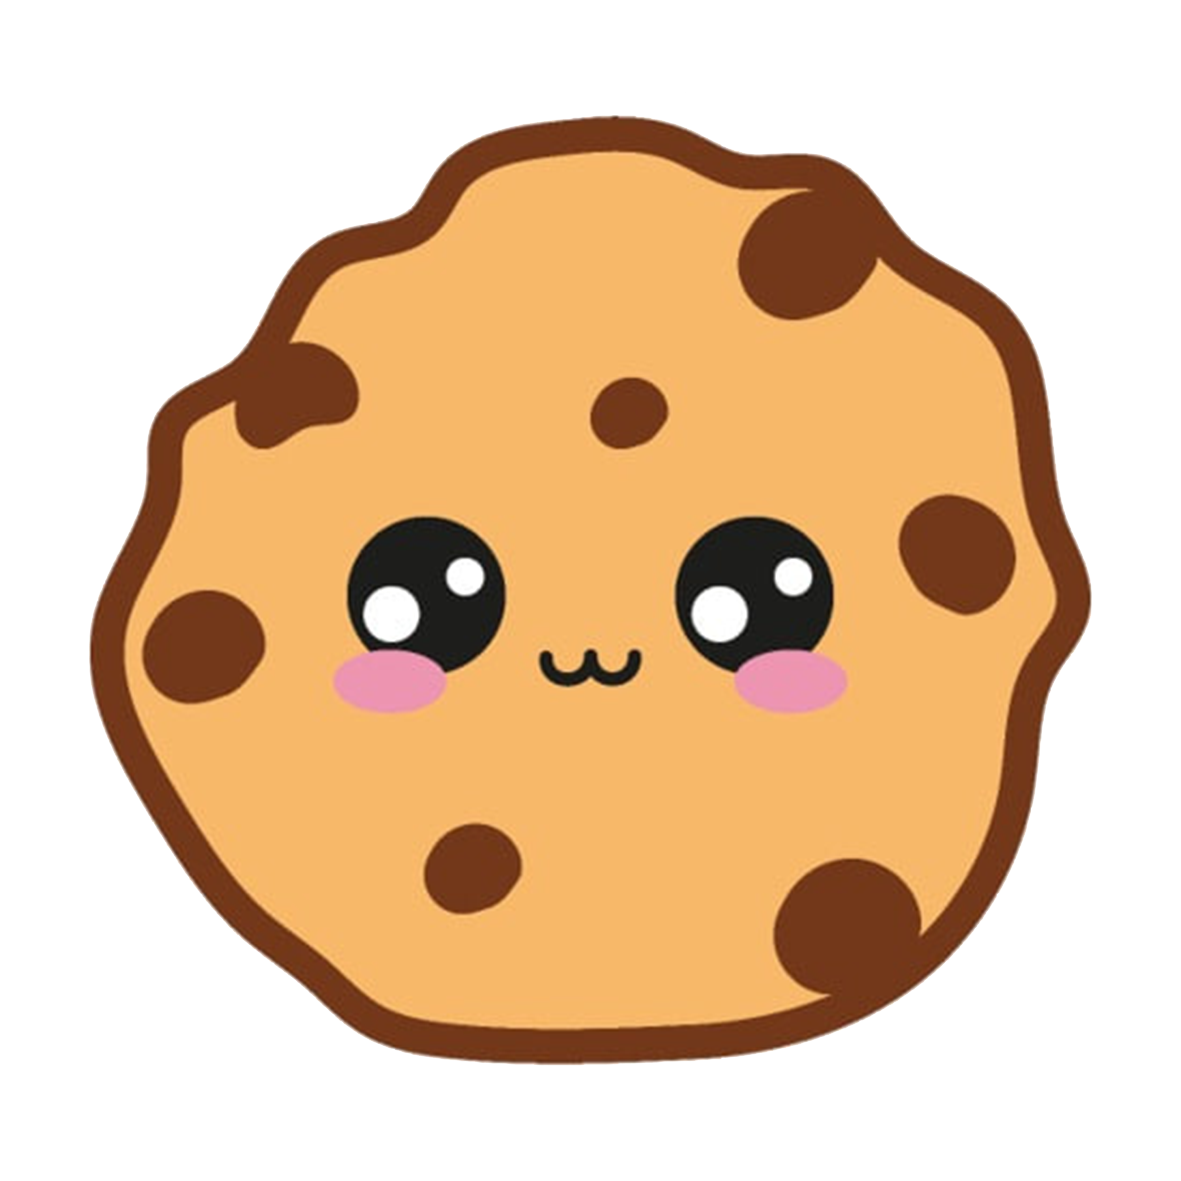
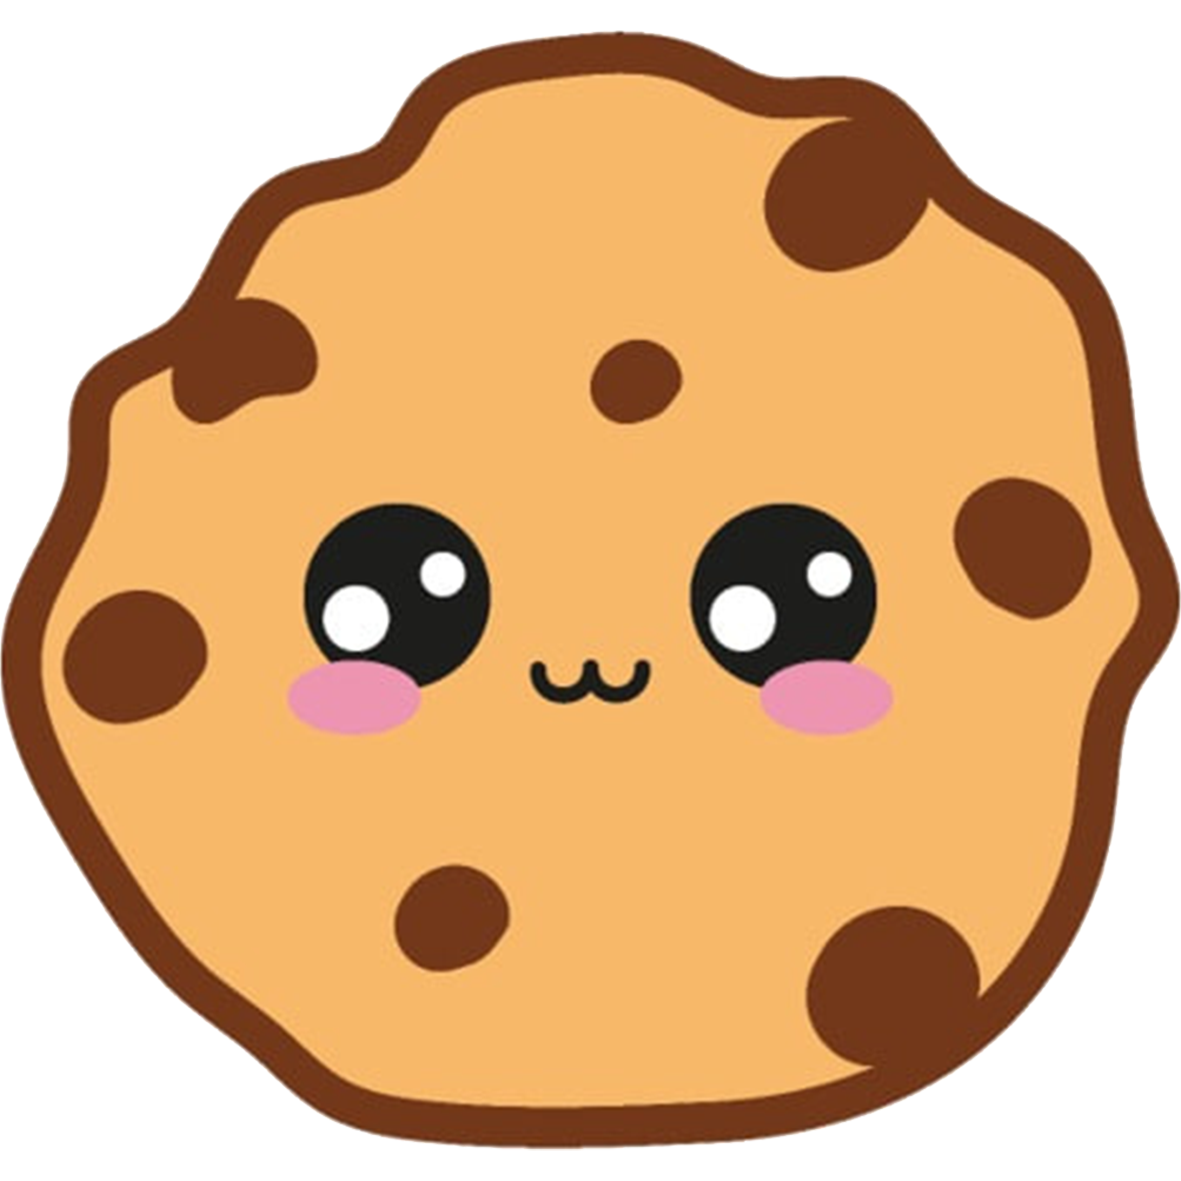
added cookies emotions and some styles

diff --git a/CookieApp/ClientApp/src/Layout/Home/Main/Cookie/Cookie.jsx b/CookieApp/ClientApp/src/Layout/Home/Main/Cookie/Cookie.jsx
@@ -1,7 +1,7 @@
 import { memo, useEffect, useState } from 'react';
 import { useDispatch, useSelector } from 'react-redux';
 import { addCookie, getClickUpgr, getCookies, getPerSec } from 'redux/gameAccSlice';
-import { CookieButton, CookieContainer, CookieQuantity, PerSecond } from './Cookie.styled';
+import { CookieButton, CookieContainer, CookieQuantity, PerSecond, CookieImage, CookieLight } from './Cookie.styled';
 import { ClickEffect } from './ClickEffect/ClickEffect';
 import { seriousNumbers } from 'common/ConvertFunc/convertFunc';
 
@@ -14,22 +14,31 @@ import { seriousNumbers } from 'common/ConvertFunc/convertFunc';
     const [perClick, setPerClick] = useState(1);
     const [clicked, setClicked] = useState(false);
     const [mouseCoordinates, setMouseCoordinates] = useState({});
-
+    const [cookieEmotion, setCookieEmotion] = useState(false);
+    const [emotion, setEmotion] = useState();
+    
      
     useEffect(() => {
         const { baseValue } = clickUpgrade;
         setPerClick(baseValue);
     }, [clickUpgrade]);
     
-
      const handleClicker = (e) => { 
+         clearTimeout(emotion);
+         setCookieEmotion(true);
          setClicked(true);
          dispatch(addCookie(perClick));
          //Animation
+         setEmotion(
+             setTimeout(() => {
+              setCookieEmotion(false);
+          }, 1500)
+         )
           setMouseCoordinates({ left: e.clientX, top: e.clientY });
           setTimeout(() => {
               setClicked(false);
           }, 1000);
+          
         setShake(true);
         setTimeout(() => setShake(false), 10);
     };
@@ -39,9 +48,14 @@ import { seriousNumbers } from 'common/ConvertFunc/convertFunc';
             <CookieContainer>
                 <CookieQuantity>{seriousNumbers(Math.round(cookie))} Cookies</CookieQuantity>
                 <PerSecond> per second: {seriousNumbers(perSec)} </PerSecond>
-                <CookieButton onMouseDown={handleClicker} className={shake ? `shake` : null}/>
-                    {clicked && <ClickEffect obj={mouseCoordinates} value={perClick} />}
+
+                <CookieButton onMouseDown={handleClicker} className={shake ? `shake` : null}>
+                <CookieLight>
+                </CookieLight>
+                <CookieImage src={cookieEmotion? 'images/Cookies/CookieHappy.png' : 'images/Cookies/CookieSad.png'} alt='cookie image' />
+                </CookieButton>
             </CookieContainer>
+                    {clicked && <ClickEffect obj={mouseCoordinates} value={perClick} />}
         </>
     )
 }

diff --git a/CookieApp/ClientApp/src/Layout/Home/Upgrades/ClickUpgrade/ClickUpgrade.jsx b/CookieApp/ClientApp/src/Layout/Home/Upgrades/ClickUpgrade/ClickUpgrade.jsx
@@ -10,9 +10,9 @@ import { seriousNumbers } from 'common/ConvertFunc/convertFunc';
 const ClickUpgrade = () => {
   const dispatch = useDispatch();
   const clickInfo = useSelector(getClickUpgr);
-  const cookies = useSelector(getCookies)
-  const { level, basePrice, image, baseValue } = clickInfo;
-
+  const cookies = useSelector(getCookies);
+  const { level, basePrice, image, baseValue, name } = clickInfo;
+  
   let upgrPrice = basePrice;
   for (let i = 1; i < level; i++){
     upgrPrice = upgrPrice * 4
@@ -21,22 +21,21 @@ const ClickUpgrade = () => {
   const handleClick = () => {
     if (cookies < upgrPrice) return;
         dispatch(buyClickUpgrade(upgrPrice))
-    }
- 
+  } 
 
   return (
     <Tooltip placement="left" destroyTooltipOnHide={true} overlay={<ClickHover value={baseValue} />}>
-        <ClickUpgradeItem onClick={()=> handleClick()}>
-            <AdditionalWrapper>
-                <UpgradeImage src={image} alt='clickImage'/>
-                <ListItemCentralDiv>
-                    <UpgradeName>Click</UpgradeName>
-                    <UpgradePrice>{seriousNumbers(upgrPrice)}</UpgradePrice>
-                </ListItemCentralDiv>
-          </AdditionalWrapper>
-            <Amount>Lvl:{level}</Amount>
-    </ClickUpgradeItem>
-  </Tooltip>
+      <ClickUpgradeItem onClick={() => handleClick()}>
+        <AdditionalWrapper>
+          <UpgradeImage src={image} alt={name} />
+          <ListItemCentralDiv>
+            <UpgradeName>{name}</UpgradeName>
+            <UpgradePrice>{seriousNumbers(upgrPrice)}</UpgradePrice>
+          </ListItemCentralDiv>
+        </AdditionalWrapper>
+        <Amount>Lvl:{level}</Amount>
+      </ClickUpgradeItem>
+    </Tooltip>
   )
 }
  export default memo(ClickUpgrade)

diff --git a/CookieApp/ClientApp/src/Layout/Home/Upgrades/UpgradesListItem/UpgradesListItem.jsx b/CookieApp/ClientApp/src/Layout/Home/Upgrades/UpgradesListItem/UpgradesListItem.jsx
@@ -7,7 +7,7 @@ import Tooltip from 'rc-tooltip';
 import 'rc-tooltip/assets/bootstrap.css';
 import { seriousNumbers } from 'common/ConvertFunc/convertFunc';
 
-const UpgradesListItem = ({counter, amount = 0, name = 'name', basePrice = 100, baseValue = 0, image, upgradeInfoId=0 }) => {
+const UpgradesListItem = ({ counter, amount = 0, name = 'name', basePrice = 100, baseValue = 0, image, upgradeInfoId = 0 }) => {
     const dispatch = useDispatch();
     const cookies = useSelector(getCookies);
     
@@ -29,7 +29,7 @@ const UpgradesListItem = ({counter, amount = 0, name = 'name', basePrice = 100, 
         <Tooltip placement="left" destroyTooltipOnHide={true} overlay={<Hover upgrade={{ name, baseValue, amount }} />}>
             <UpgradeListItem onClick={() => handlerUpgradesClick()}>
                 <AdditionalWrapper>
-                    <UpgradeImage src={image} alt='upgrade img' />
+                    <UpgradeImage src={image} alt={name} />
                     <ListItemCentralDiv>
                         <UpgradeName>{name}</UpgradeName>
                         <UpgradePrice>{seriousNumbers(upgrPrice)}</UpgradePrice>

diff --git a/CookieApp/ClientApp/src/Layout/Home/Main/Cookie/Cookie.styled.js b/CookieApp/ClientApp/src/Layout/Home/Main/Cookie/Cookie.styled.js
@@ -15,10 +15,20 @@ const click = keyframes`
 100%{ transform: translate(1px, -2px)  rotate(-1deg); }`;
 
 export const CookieButton = styled.button`
+  position: relative;
   cursor: pointer;
   border-radius: 50%;
+  border-style: none;
   height: 300px;
   width: 300px;
+
+  display: flex;
+  justify-content: center;
+  align-items: center;
+  background-color: transparent;
+
+  user-drag: none;
+  user-select: none;
 
   &.shake {
     animation: ${click} 0.01s;
@@ -37,4 +47,27 @@ export const PerSecond = styled.p`
   font-size: 20px;
   font-family: serif;
   font-weight: 700;
+`;
+
+export const CookieImage = styled.img`
+  height: 100%;
+  width: 100%;
+  z-index: 1;
+  border-radius: 50%;
+  user-drag: none;
+  user-select: none;
+`;
+
+export const CookieLight = styled.div`
+  box-shadow: rgb(255 255 255 / 56%) 0px 0 150px 40px;
+  border: 0px;
+  position: absolute;
+  background-color: transparent;
+  top: 50%;
+  left: 50%;
+  width: 250px;
+  height: 250px;
+  border-radius: 50%;
+  transform: translate(-50%, -50%);
+  z-index: 0;
 `;

diff --git a/CookieApp/ClientApp/src/Layout/Home/Main/Cookie/ClickEffect/ClickEffect.styled.js b/CookieApp/ClientApp/src/Layout/Home/Main/Cookie/ClickEffect/ClickEffect.styled.js
@@ -14,11 +14,15 @@ export const ClickedComponent = styled.p`
   pading: 0;
   position: absolute;
   cursor: none;
-  color: black;
+  color: white;
   font-size: 16px;
   font-family: serif;
   font-weight: 700;
   top: ${(props) => props.obj.top - 30}px;
   left: ${(props) => props.obj.left}px;
   animation: ${click} 1s linear;
+  z-index: 2;
+
+  user-drag: none;
+  user-select: none;
 `;

diff --git a/CookieApp/ClientApp/src/Layout/Home/Upgrades/ClickUpgrade/ClickUpgrade.styled.js b/CookieApp/ClientApp/src/Layout/Home/Upgrades/ClickUpgrade/ClickUpgrade.styled.js
@@ -19,7 +19,7 @@ export const ClickUpgradeItem = styled.div`
 export const UpgradeImage = styled.img`
   width: 80px;
   padding: 5px;
-  background-color: teal;
+  // background-color: teal;
   height: 75px;
   margin-right: 10px;
 `;

diff --git a/CookieApp/ClientApp/src/Layout/Home/Upgrades/UpgradesListItem/UpgradesListItem.styled.js b/CookieApp/ClientApp/src/Layout/Home/Upgrades/UpgradesListItem/UpgradesListItem.styled.js
@@ -18,7 +18,7 @@ export const UpgradeListItem = styled.li`
 export const UpgradeImage = styled.img`
   width: 80px;
   padding: 5px;
-  background-color: teal;
+  // background-color: teal;
   height: 75px;
   margin-right: 10px;
 `;

diff --git a/CookieApp/ClientApp/src/Layout/Home/Main/main.styled.js b/CookieApp/ClientApp/src/Layout/Home/Main/main.styled.js
@@ -6,4 +6,5 @@ export const Container = styled.div`
   display: flex;
   justify-content: center;
   align-items: center;
+  background-color: #fce671;
 `;
